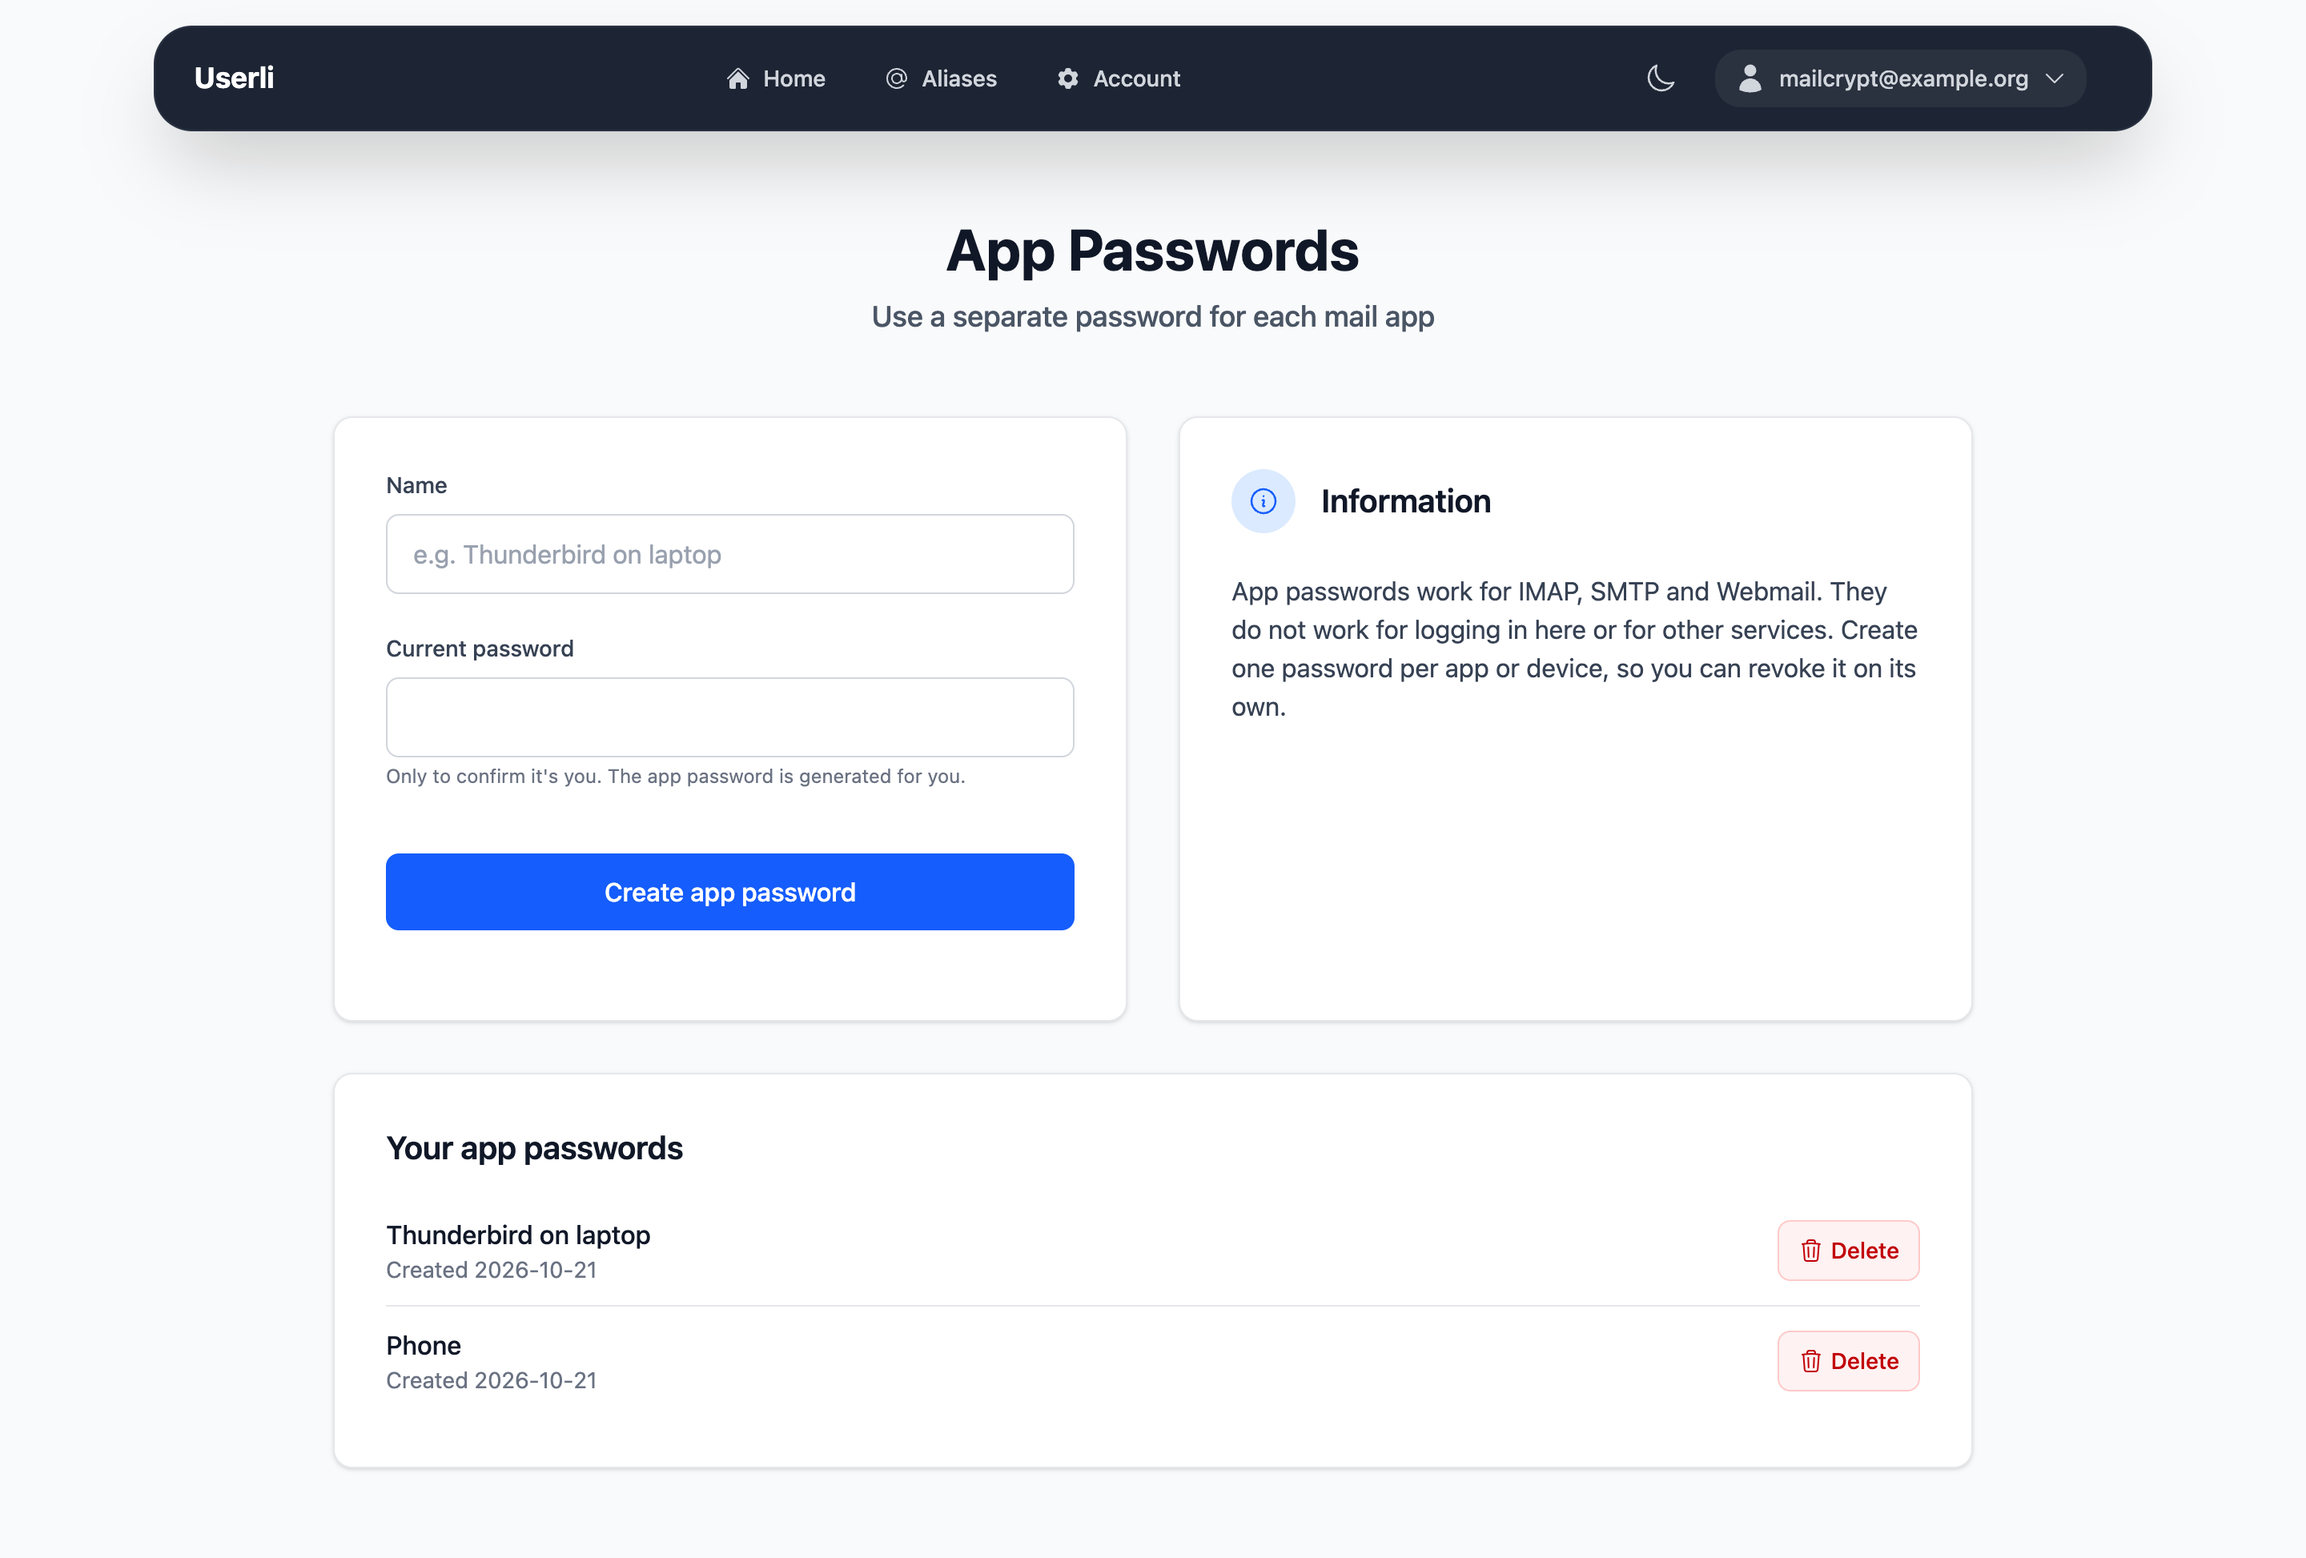
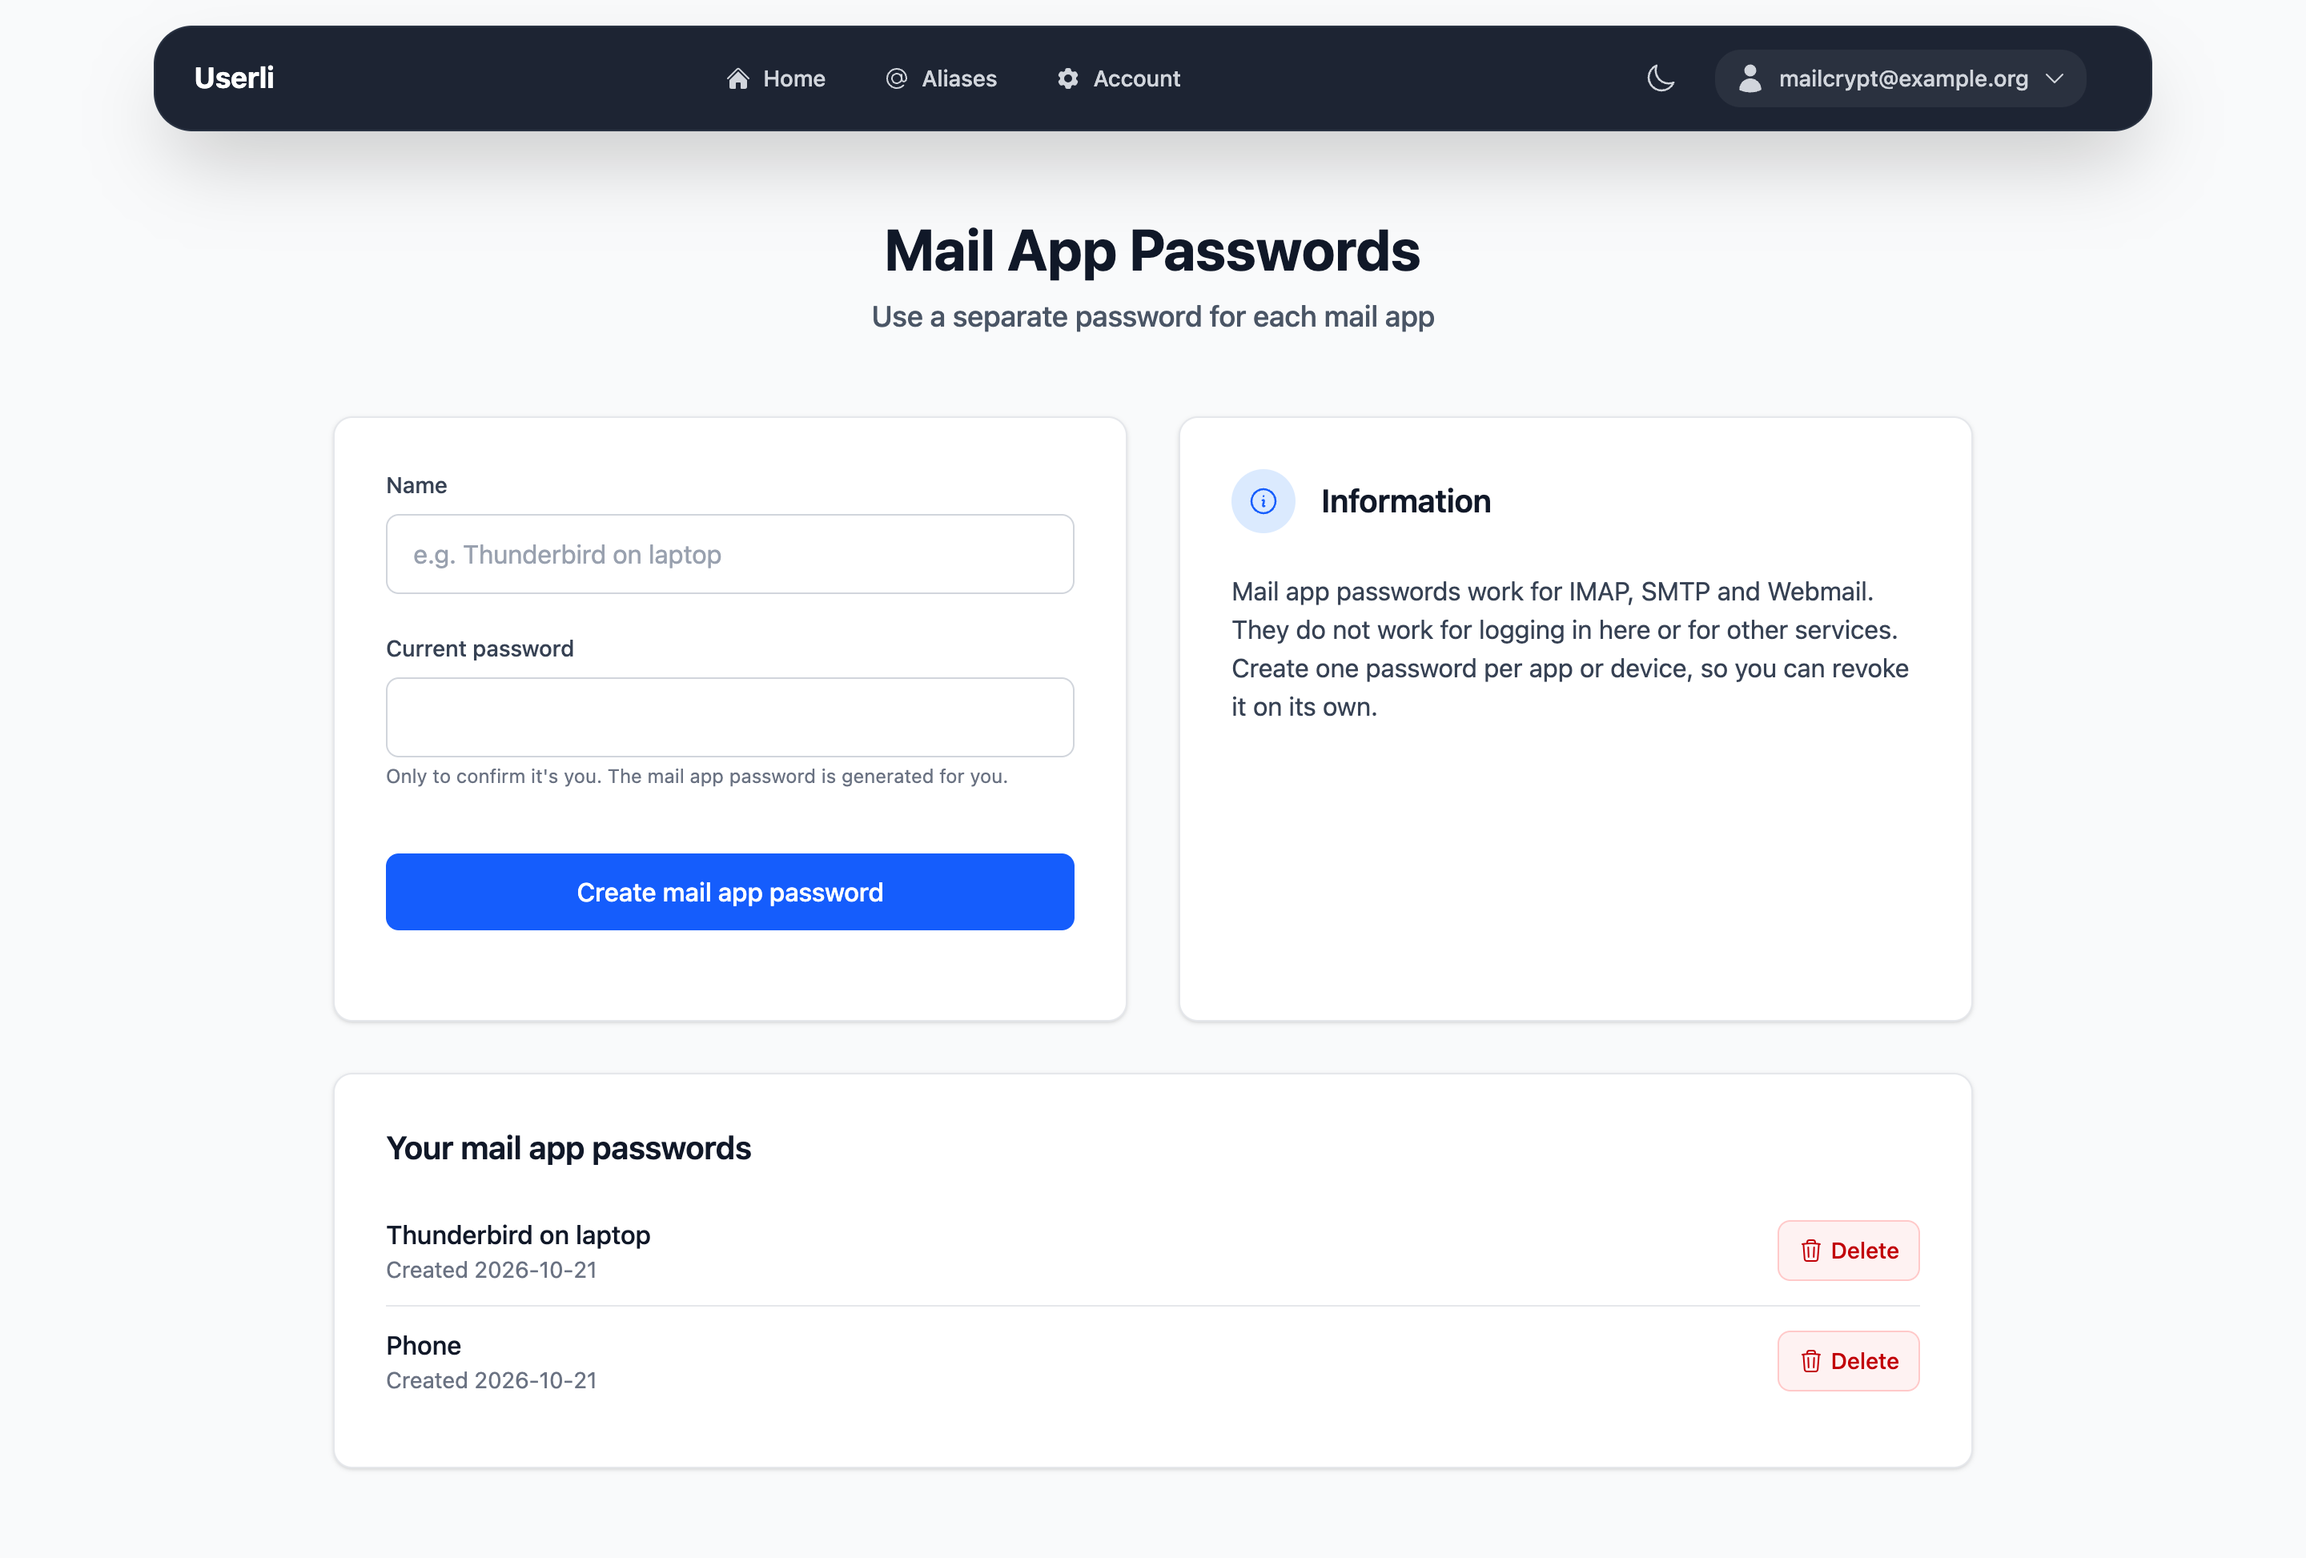
💬 Call them mail app passwords and use 6 groups of 4
The new length keeps them apart from Nextcloud app passwords (5 groups of 5),
so a later hint can tell users which kind they entered.

diff --git a/src/Command/MetricsCommand.php b/src/Command/MetricsCommand.php
@@ -77,12 +77,12 @@ final class MetricsCommand extends Command
         $output->writeln('userli_users_twofactor_total '.$usersTwofactorTotal);
 
         $usersAppPasswordTotal = $this->appPasswordRepository->countUsers();
-        $output->writeln('# HELP userli_users_app_password_total Total number of users with at least one app password');
+        $output->writeln('# HELP userli_users_app_password_total Total number of users with at least one mail app password');
         $output->writeln('# TYPE userli_users_app_password_total gauge');
         $output->writeln('userli_users_app_password_total '.$usersAppPasswordTotal);
 
         $appPasswordsTotal = $this->appPasswordRepository->count([]);
-        $output->writeln('# HELP userli_app_passwords_total Total number of app passwords');
+        $output->writeln('# HELP userli_app_passwords_total Total number of mail app passwords');
         $output->writeln('# TYPE userli_app_passwords_total gauge');
         $output->writeln('userli_app_passwords_total '.$appPasswordsTotal);
 

diff --git a/src/Service/AppPasswordManager.php b/src/Service/AppPasswordManager.php
@@ -16,7 +16,7 @@ use Random\Randomizer;
 
 final readonly class AppPasswordManager
 {
-    // Same format as Nextcloud app passwords: 5 groups of 5, without look-alike characters
+    // 6 groups of 4 (137 bits), so they can't be mistaken for Nextcloud app passwords (5 groups of 5)
     private const string CHARS = 'abcdefgijkmnopqrstwxyzABCDEFGHJKLMNPQRSTWXYZ23456789';
 
     public function __construct(
@@ -43,7 +43,7 @@ final readonly class AppPasswordManager
         }
 
         $randomizer = new Randomizer();
-        $plain = implode('-', array_map(static fn (): string => $randomizer->getBytesFromString(self::CHARS, 5), range(1, 5)));
+        $plain = implode('-', array_map(static fn (): string => $randomizer->getBytesFromString(self::CHARS, 4), range(1, 6)));
         $secretBox = CryptoSecretHandler::create($privateKey, $plain);
         sodium_memzero($privateKey);
 

diff --git a/tests/Service/AppPasswordManagerTest.php b/tests/Service/AppPasswordManagerTest.php
@@ -39,7 +39,7 @@ class AppPasswordManagerTest extends TestCase
         $manager = new AppPasswordManager($this->createStub(AppPasswordRepository::class), $entityManager, $this->mailCryptKeyHandler);
         $plain = $manager->create($user, 'Thunderbird', 'password');
 
-        self::assertMatchesRegularExpression('/^[abcdefgijkmnopqrstwxyzABCDEFGHJKLMNPQRSTWXYZ23456789]{5}(-[abcdefgijkmnopqrstwxyzABCDEFGHJKLMNPQRSTWXYZ23456789]{5}){4}$/', $plain);
+        self::assertMatchesRegularExpression('/^[abcdefgijkmnopqrstwxyzABCDEFGHJKLMNPQRSTWXYZ23456789]{4}(-[abcdefgijkmnopqrstwxyzABCDEFGHJKLMNPQRSTWXYZ23456789]{4}){5}$/', $plain);
         self::assertInstanceOf(AppPassword::class, $persisted);
         self::assertSame($user, $persisted->getUser());
         self::assertSame('Thunderbird', $persisted->getName());

diff --git a/docs/user/app-passwords.md b/docs/user/app-passwords.md
@@ -1,39 +1,39 @@
-# App passwords
+# Mail app passwords
 
-![App passwords](../assets/images/app-passwords.png){class="screenshot"}
+![Mail app passwords](../assets/images/app-passwords.png){class="screenshot"}
 
-An app password is a separate password for one email program, for example
+A mail app password is a separate password for one email program, for example
 Thunderbird on your laptop or the mail app on your phone. Use it instead of
 your password when you set up the app.
 
-App passwords work for reading and sending email (IMAP, SMTP) and for the
+Mail app passwords work for reading and sending email (IMAP, SMTP) and for the
 webmail. They do **not** work for signing in to this web interface or to other
-services. If a device gets lost, delete its app password. Your password and
+services. If a device gets lost, delete its mail app password. Your password and
 your other devices keep working.
 
-## Create an app password
+## Create a mail app password
 
-![App passwords card in the account settings](../assets/images/app-passwords-settings.png){class="screenshot"}
+![Mail app passwords card in the account settings](../assets/images/app-passwords-settings.png){class="screenshot"}
 
-1. Go to **Account settings → App Passwords**.
+1. Go to **Account settings → Mail App Passwords**.
 2. Enter a **Name** that tells you where you use it, for example
    *Thunderbird on laptop*. Each name can be used only once.
-3. Enter your current password to confirm it's you and click **Create app
-   password**. The app password itself is generated for you.
-4. Copy the new app password and enter it in your email program instead of
+3. Enter your current password to confirm it's you and click **Create mail
+   app password**. The mail app password itself is generated for you.
+4. Copy the new mail app password and enter it in your email program instead of
    your password.
 
-![New app password](../assets/images/app-passwords-created.png){class="screenshot"}
+![New mail app password](../assets/images/app-passwords-created.png){class="screenshot"}
 
 !!! warning
 
-    The app password is shown only once. If you lose it, delete it and create
+    The mail app password is shown only once. If you lose it, delete it and create
     a new one.
 
-## Delete an app password
+## Delete a mail app password
 
-Go to **Account settings → App Passwords** and click **Delete** next to the
-app password. The app using it can't sign in anymore.
+Go to **Account settings → Mail App Passwords** and click **Delete** next to the
+mail app password. The app using it can't sign in anymore.
 
-Changing your password does not delete your app passwords. If your provider
-resets your account or you delete your account, all app passwords are deleted.
+Changing your password does not delete your mail app passwords. If your provider
+resets your account or you delete your account, all mail app passwords are deleted.

diff --git a/docs/admin/users.md b/docs/admin/users.md
@@ -71,7 +71,7 @@ password and their [recovery token](../user/recovery.md).
     * a new recovery token is created and shown to you once – pass it on to
       the user securely,
     * two-factor authentication is turned off,
-    * all app passwords are deleted,
+    * all mail app passwords are deleted,
     * the `user.reset` [webhook](webhooks.md) is sent.
 
     The user has to change the password at the next sign-in.
@@ -82,7 +82,7 @@ Deleting is a **soft delete**. The account remains in the database so that the
 address can never be registered again, but:
 
 * the password is replaced by a random one, recovery token, MailCrypt keys and
-  app passwords are erased,
+  mail app passwords are erased,
 * all aliases of the user are deleted,
 * unused invite codes and notifications are removed,
 * the published OpenPGP key is removed,

diff --git a/docs/operations/monitoring.md b/docs/operations/monitoring.md
@@ -15,8 +15,8 @@
 | `userli_users_recovery_token_total` | Users with a recovery token |
 | `userli_users_mailcrypt_total` | Users with MailCrypt enabled |
 | `userli_users_twofactor_total` | Users with 2FA enabled |
-| `userli_users_app_password_total` | Users with at least one app password |
-| `userli_app_passwords_total` | App passwords |
+| `userli_users_app_password_total` | Users with at least one mail app password |
+| `userli_app_passwords_total` | Mail app passwords |
 | `userli_vouchers_total{type="redeemed"\|"unredeemed"}` | Invite codes |
 | `userli_domains_total` | Domains |
 | `userli_aliases_total` | Aliases |

diff --git a/docs/user/delete.md b/docs/user/delete.md
@@ -15,7 +15,7 @@ after a while.
 
 !!! danger "Deletion cannot be undone"
 
-    * Your password, app passwords, recovery token and mailbox encryption keys
+    * Your password, mail app passwords, recovery token and mailbox encryption keys
       are deleted.
       Your encrypted emails can't be decrypted anymore.
     * All your aliases are deleted.

diff --git a/docs/user/security.md b/docs/user/security.md
@@ -19,7 +19,7 @@ password manager.
 !!! note
 
     2FA protects the sign-in to the web interface. Your email program keeps
-    using only your password, or an [app password](app-passwords.md).
+    using only your password, or a [mail app password](app-passwords.md).
 
 ### Turn on 2FA
 
